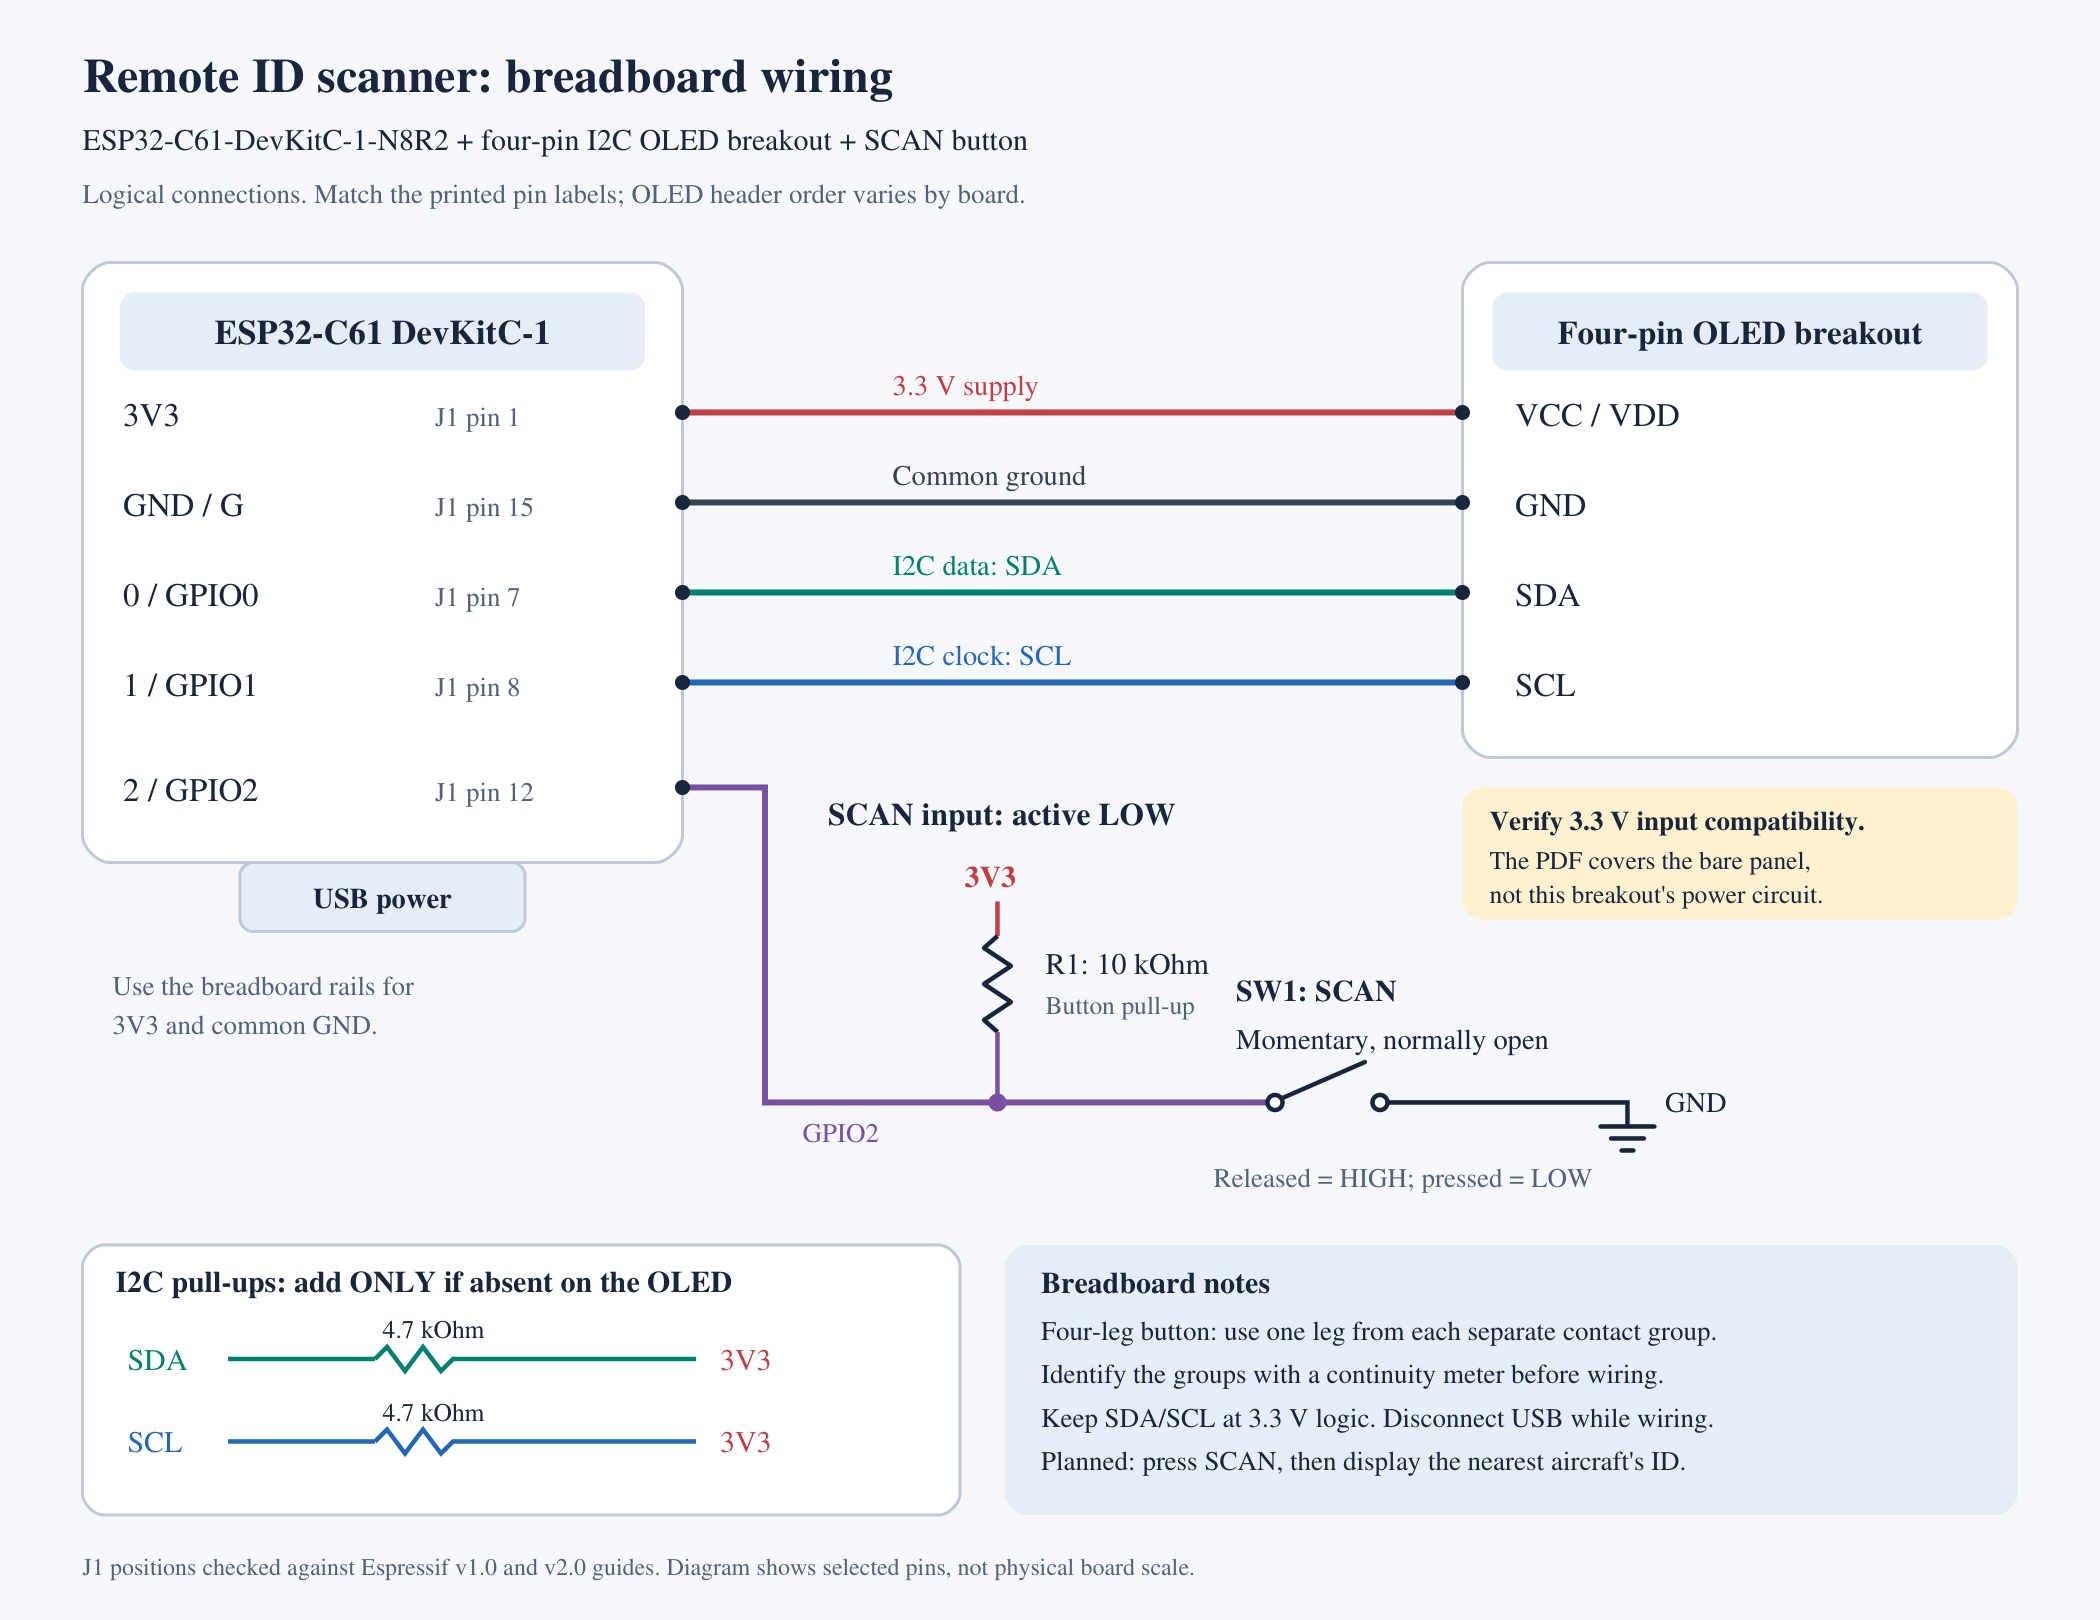
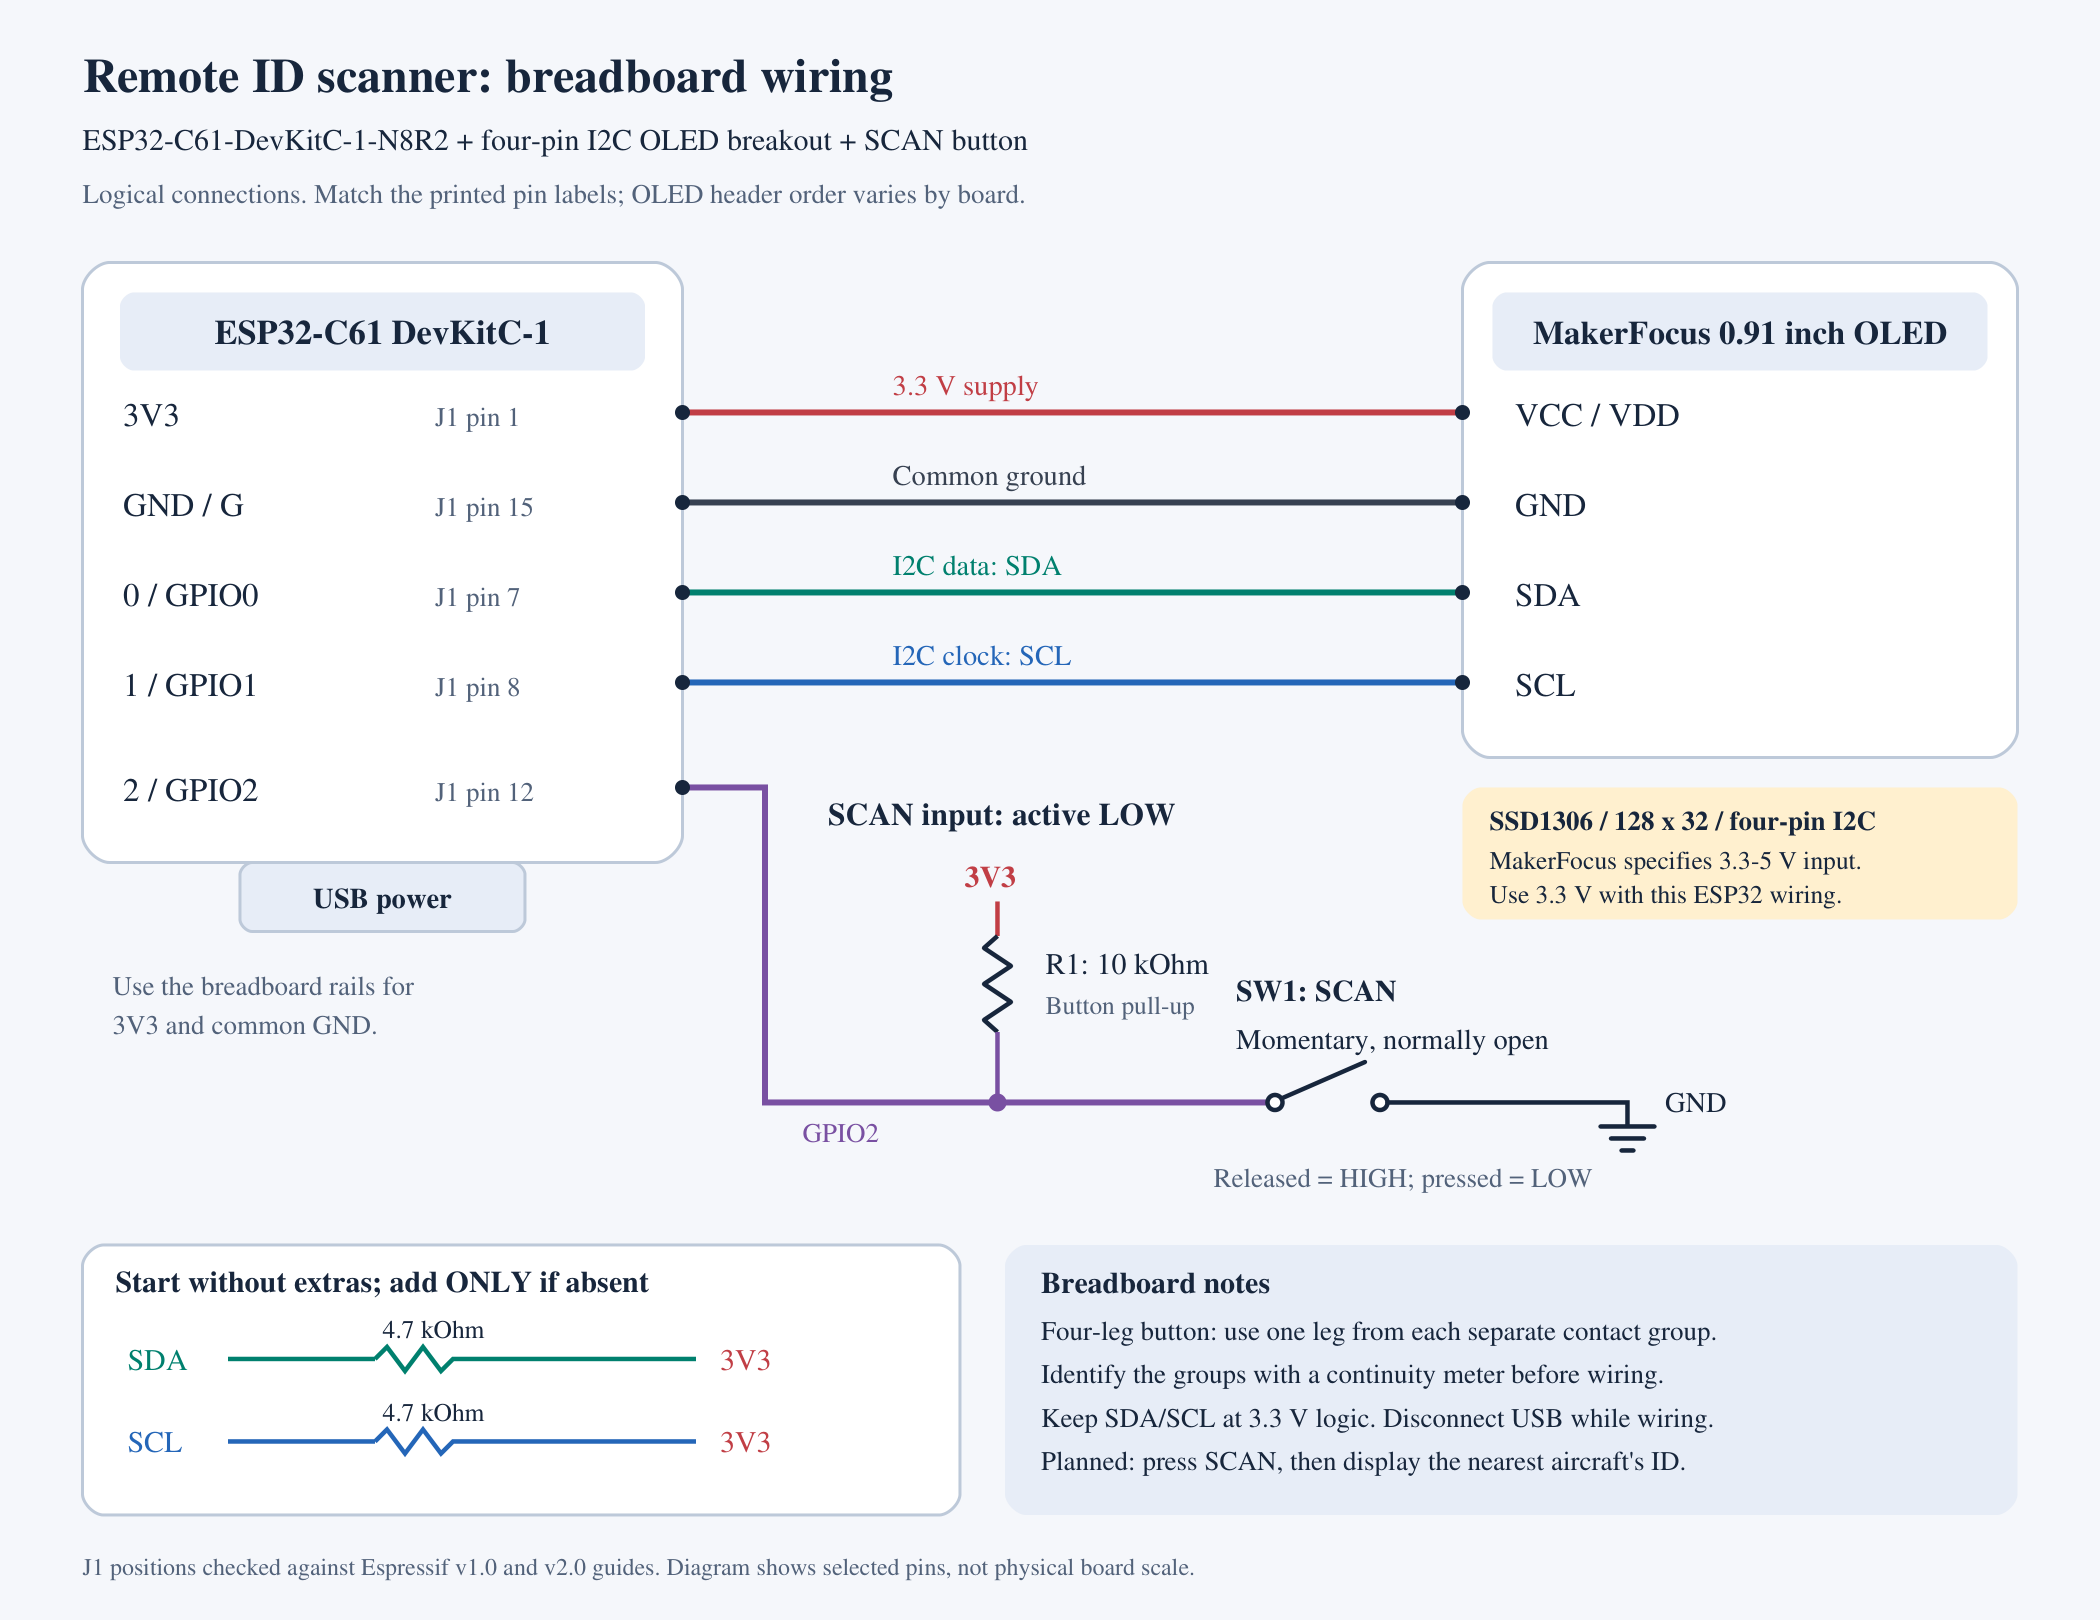
Identify MakerFocus OLED and clarify onboard pull-up evidence

Changed region(s): [[0.7119, 0.4938, 0.8976, 0.5556], [0.0619, 0.7716, 0.3405, 0.8025], [0.7119, 0.1852, 0.9286, 0.216]]

diff --git a/hardware/wiring/breadboard.md b/hardware/wiring/breadboard.md
@@ -1,8 +1,9 @@
 # Breadboard wiring
 
-For the ESP32-C61-DevKitC-1-N8R2, a four-pin I2C OLED breakout, and a normally-open
-momentary SCAN pushbutton. The OLED panel PDF identifies an SSD1306 128 x 32 panel;
-the actual breakout specifications have not been supplied.
+For the ESP32-C61-DevKitC-1-N8R2, the MakerFocus 0.91 inch SSD1306 128 x 32
+four-pin I2C OLED breakout (ASIN B079BN2J8V), and a normally-open momentary
+SCAN pushbutton. The user supplied the product link; MakerFocus specifies
+3.3-5 V input for this module.
 
 ![Breadboard wiring](breadboard.png)
 
@@ -31,15 +32,16 @@ and v2.0 board guides. GPIO0 is not the BOOT input on this board.
 3. Connect the OLED by its printed `VCC`/`VDD`, `GND`, `SDA`, and `SCL` labels.
    Header order varies between breakout boards; the diagram is a logical net
    diagram, not a physical header-order drawing.
-4. This power connection assumes the breakout is rated for 3.3 V input. Verify
-   that using the breakout's documentation or marked model before powering it.
-   The supplied bare-panel PDF does not prove the breakout's input rating.
-5. I2C needs pull-ups on SDA and SCL to 3.3 V. Many breakouts already include them.
-   If yours has none, add one 4.7 kOhm resistor from SDA to 3V3 and another from
-   SCL to 3V3, as shown in the diagram. Do not add duplicate resistors by default.
-   Do not pull either signal up to 5 V.
-6. If the breakout requires 5 V input, revise this wiring using its actual circuit
-   details; power and I2C logic levels must be treated separately.
+4. Connect OLED VCC to 3V3. MakerFocus lists 3.3-5 V input, so 3.3 V is supported.
+5. Start without extra I2C resistors. The manufacturer's rear-board photo shows
+   R3 and R4 marked 472 (4.7 kOhm), consistent with onboard I2C pull-ups. This is
+   an inference from the photo; their exact net connections still require a
+   schematic or continuity check of the actual board. The bare-panel PDF's
+   reference circuit also specifies 4.7 kOhm pull-ups, labeled R4 and R5 there.
+6. If testing shows pull-ups are absent, add one 4.7 kOhm resistor from SDA to
+   3V3 and another from SCL to 3V3, as shown in the optional diagram section.
+   Do not pull either signal up to 5 V. Added pull-ups operate in parallel with
+   any existing ones, so do not add duplicates without checking the bus.
 
 ## Button
 
@@ -72,7 +74,7 @@ I2C address 0x3C. Do not pass 0x78 to APIs expecting a seven-bit address.
 ## Prototype parts
 
 - ESP32-C61-DevKitC-1-N8R2 and USB data cable.
-- Four-pin I2C OLED breakout, with verified 3.3 V input compatibility.
+- MakerFocus 0.91 inch SSD1306 128 x 32 four-pin I2C OLED breakout.
 - Normally-open momentary pushbutton.
 - Breadboard and jumper wires.
 - One 10 kOhm resistor for the button pull-up.
@@ -80,6 +82,9 @@ I2C address 0x3C. Do not pass 0x78 to APIs expecting a seven-bit address.
 
 ## Sources
 
+- [User's OLED product](https://www.amazon.com/dp/B079BN2J8V?th=1)
+- [MakerFocus specifications](https://www.makerfocus.com/products/2pcs-i2c-oled-display-module-0-91-inch-i2c-ssd1306-oled-display-module-1)
+- [Manufacturer's board photo](https://www.makerfocus.com/cdn/shop/products/03_90ccb732-3d41-4af3-b497-5623ad72b067.jpg?v=1623377961)
 - [Espressif v2.0 header tables](https://docs.espressif.com/projects/esp-dev-kits/en/latest/esp32c61/esp32-c61-devkitc-1/user_guide.html#header-block)
 - [Espressif v1.0 header tables](https://docs.espressif.com/projects/esp-dev-kits/en/latest/esp32c61/esp32-c61-devkitc-1/user_guide_v1.0.html#header-block)
 - [Supplied OLED panel PDF](../../datasheets/OLEDscreen.pdf), physical PDF pages

diff --git a/datasheets/README.md b/datasheets/README.md
@@ -7,9 +7,21 @@ It describes the QG-2832TLBFG02 bare OLED panel, with an SSD1306 controller,
 128 x 32 pixels, an I2C interface, and a 14-contact ribbon. The user confirmed
 that the actual display is mounted on a four-pin breakout circuit board.
 
-Use the PDF as panel-level reference only. It does not establish the breakout's
-header order, input-voltage rating, pull-up resistor values, or dimensions.
-Add the breakout's own documentation here when its manufacturer/part is known.
+Use the PDF as panel-level reference. Its recommended circuits (PDF pages 10-11,
+printed pages 7-8) specify R4 and R5 as 4.7 kOhm SDA/SCL pull-ups. This describes
+the recommended panel circuit, not necessarily the exact breakout implementation.
+
+The user identified the breakout as MakerFocus ASIN B079BN2J8V. Module references,
+checked 2026-10-13:
+
+- [User's Amazon product](https://www.amazon.com/dp/B079BN2J8V?th=1)
+- [MakerFocus product specifications](https://www.makerfocus.com/products/2pcs-i2c-oled-display-module-0-91-inch-i2c-ssd1306-oled-display-module-1):
+  SSD1306, 128 x 32, four-pin I2C, 3.3-5 V input.
+- [Manufacturer's front/back board photo](https://www.makerfocus.com/cdn/shop/products/03_90ccb732-3d41-4af3-b497-5623ad72b067.jpg?v=1623377961):
+  R3 and R4 are marked 472 (4.7 kOhm), consistent with onboard I2C pull-ups.
+  Their function is inferred from the photo, not confirmed by a breakout schematic.
+
+Keep this PDF and add documentation for future modules in this directory.
 
 Board references, checked 2026-10-13:
 

diff --git a/README.md b/README.md
@@ -39,15 +39,18 @@ See [the wiring guide](hardware/wiring/breadboard.md) and
 
 | ESP32-C61 connection | Breadboard connection |
 | --- | --- |
-| 3V3, J1 pin 1 | OLED VCC/VDD, for a breakout rated for 3.3 V input |
+| 3V3, J1 pin 1 | MakerFocus OLED VCC |
 | GND, J1 pin 15 | OLED GND and button ground |
 | GPIO0, J1 pin 7, board label `0` | OLED SDA |
 | GPIO1, J1 pin 8, board label `1` | OLED SCL |
 | GPIO2, J1 pin 12, board label `2` | Normally-open button to GND; 10 kOhm pull-up to 3V3 |
 
 Power the ESP32 through USB for this prototype. Wire by the OLED header labels,
-not by an assumed left-to-right pin order. The supplied PDF describes the bare
-OLED panel, so the breakout input-voltage rating still needs verification.
+not by an assumed left-to-right pin order. The user identified the OLED as
+MakerFocus ASIN B079BN2J8V (0.91 inch, SSD1306, 128 x 32). MakerFocus specifies
+3.3-5 V input. Use 3.3 V and start without extra I2C pull-up resistors; onboard
+pull-ups are inferred from the manufacturer's component photo, pending a
+schematic or continuity check of the actual board.
 
 The eventual radio implementation must be validated for each intended Remote
 ID transport; receiving all nearby drones is not guaranteed. ESP32-C61 provides
